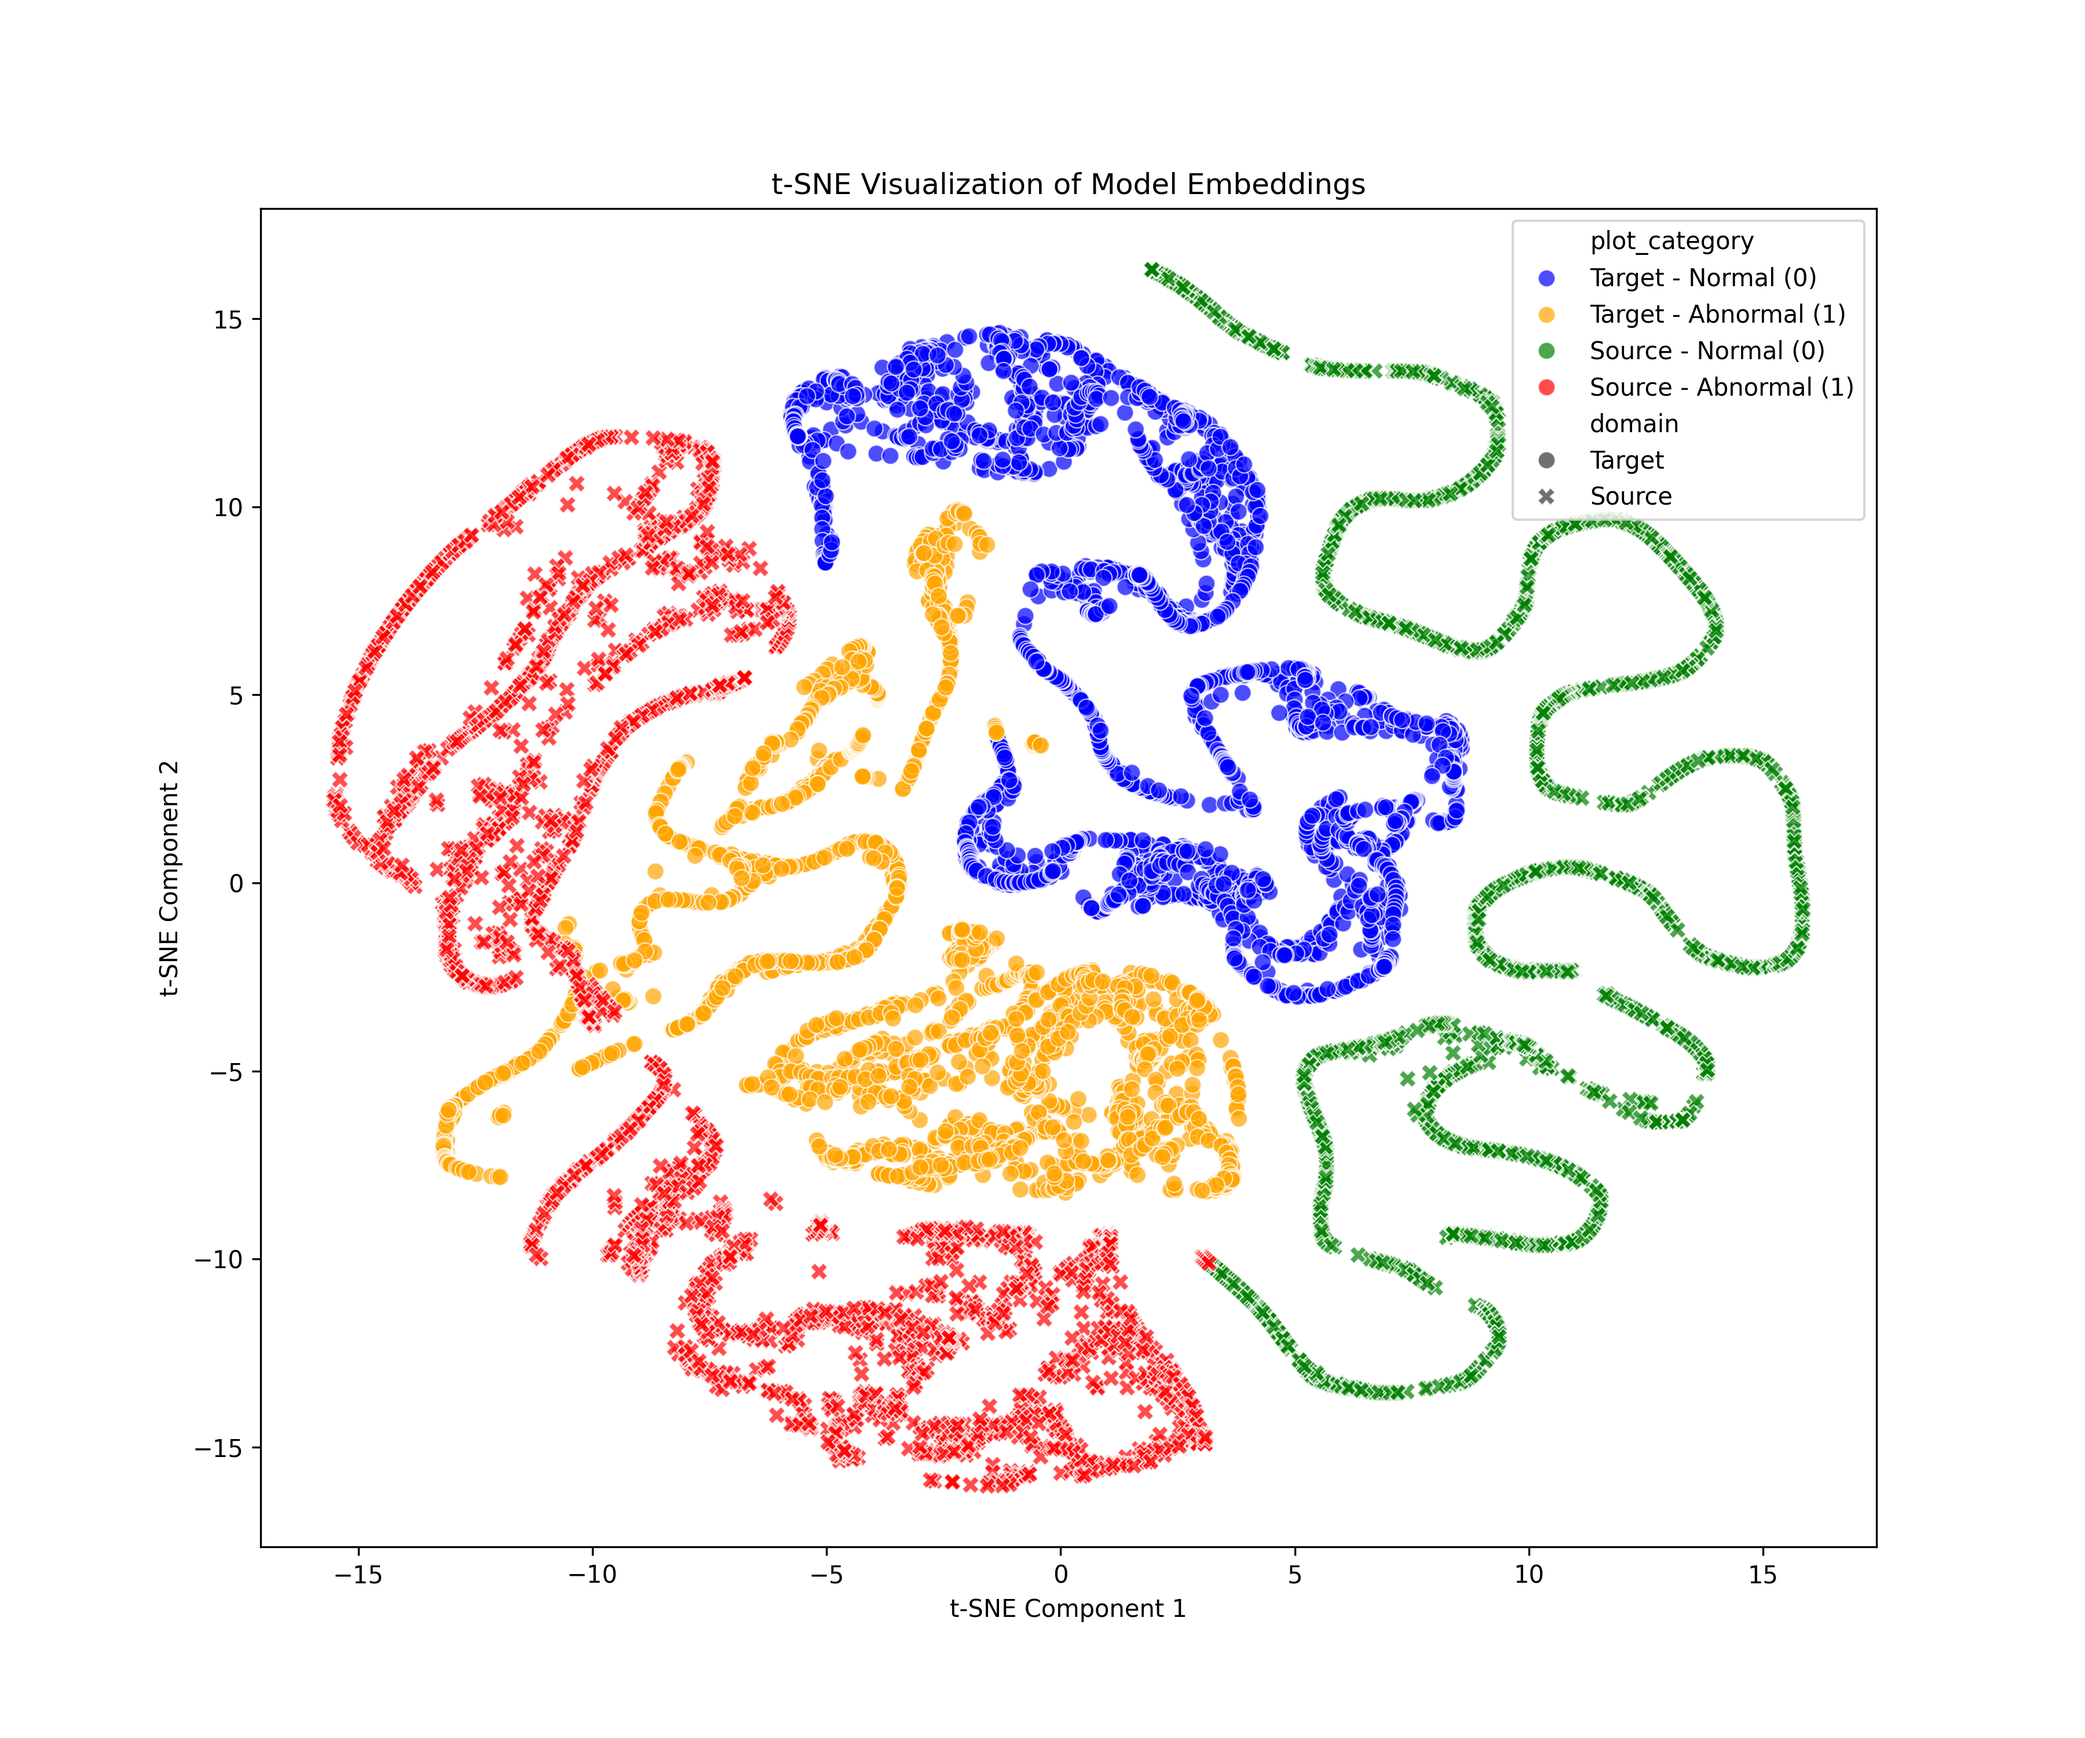
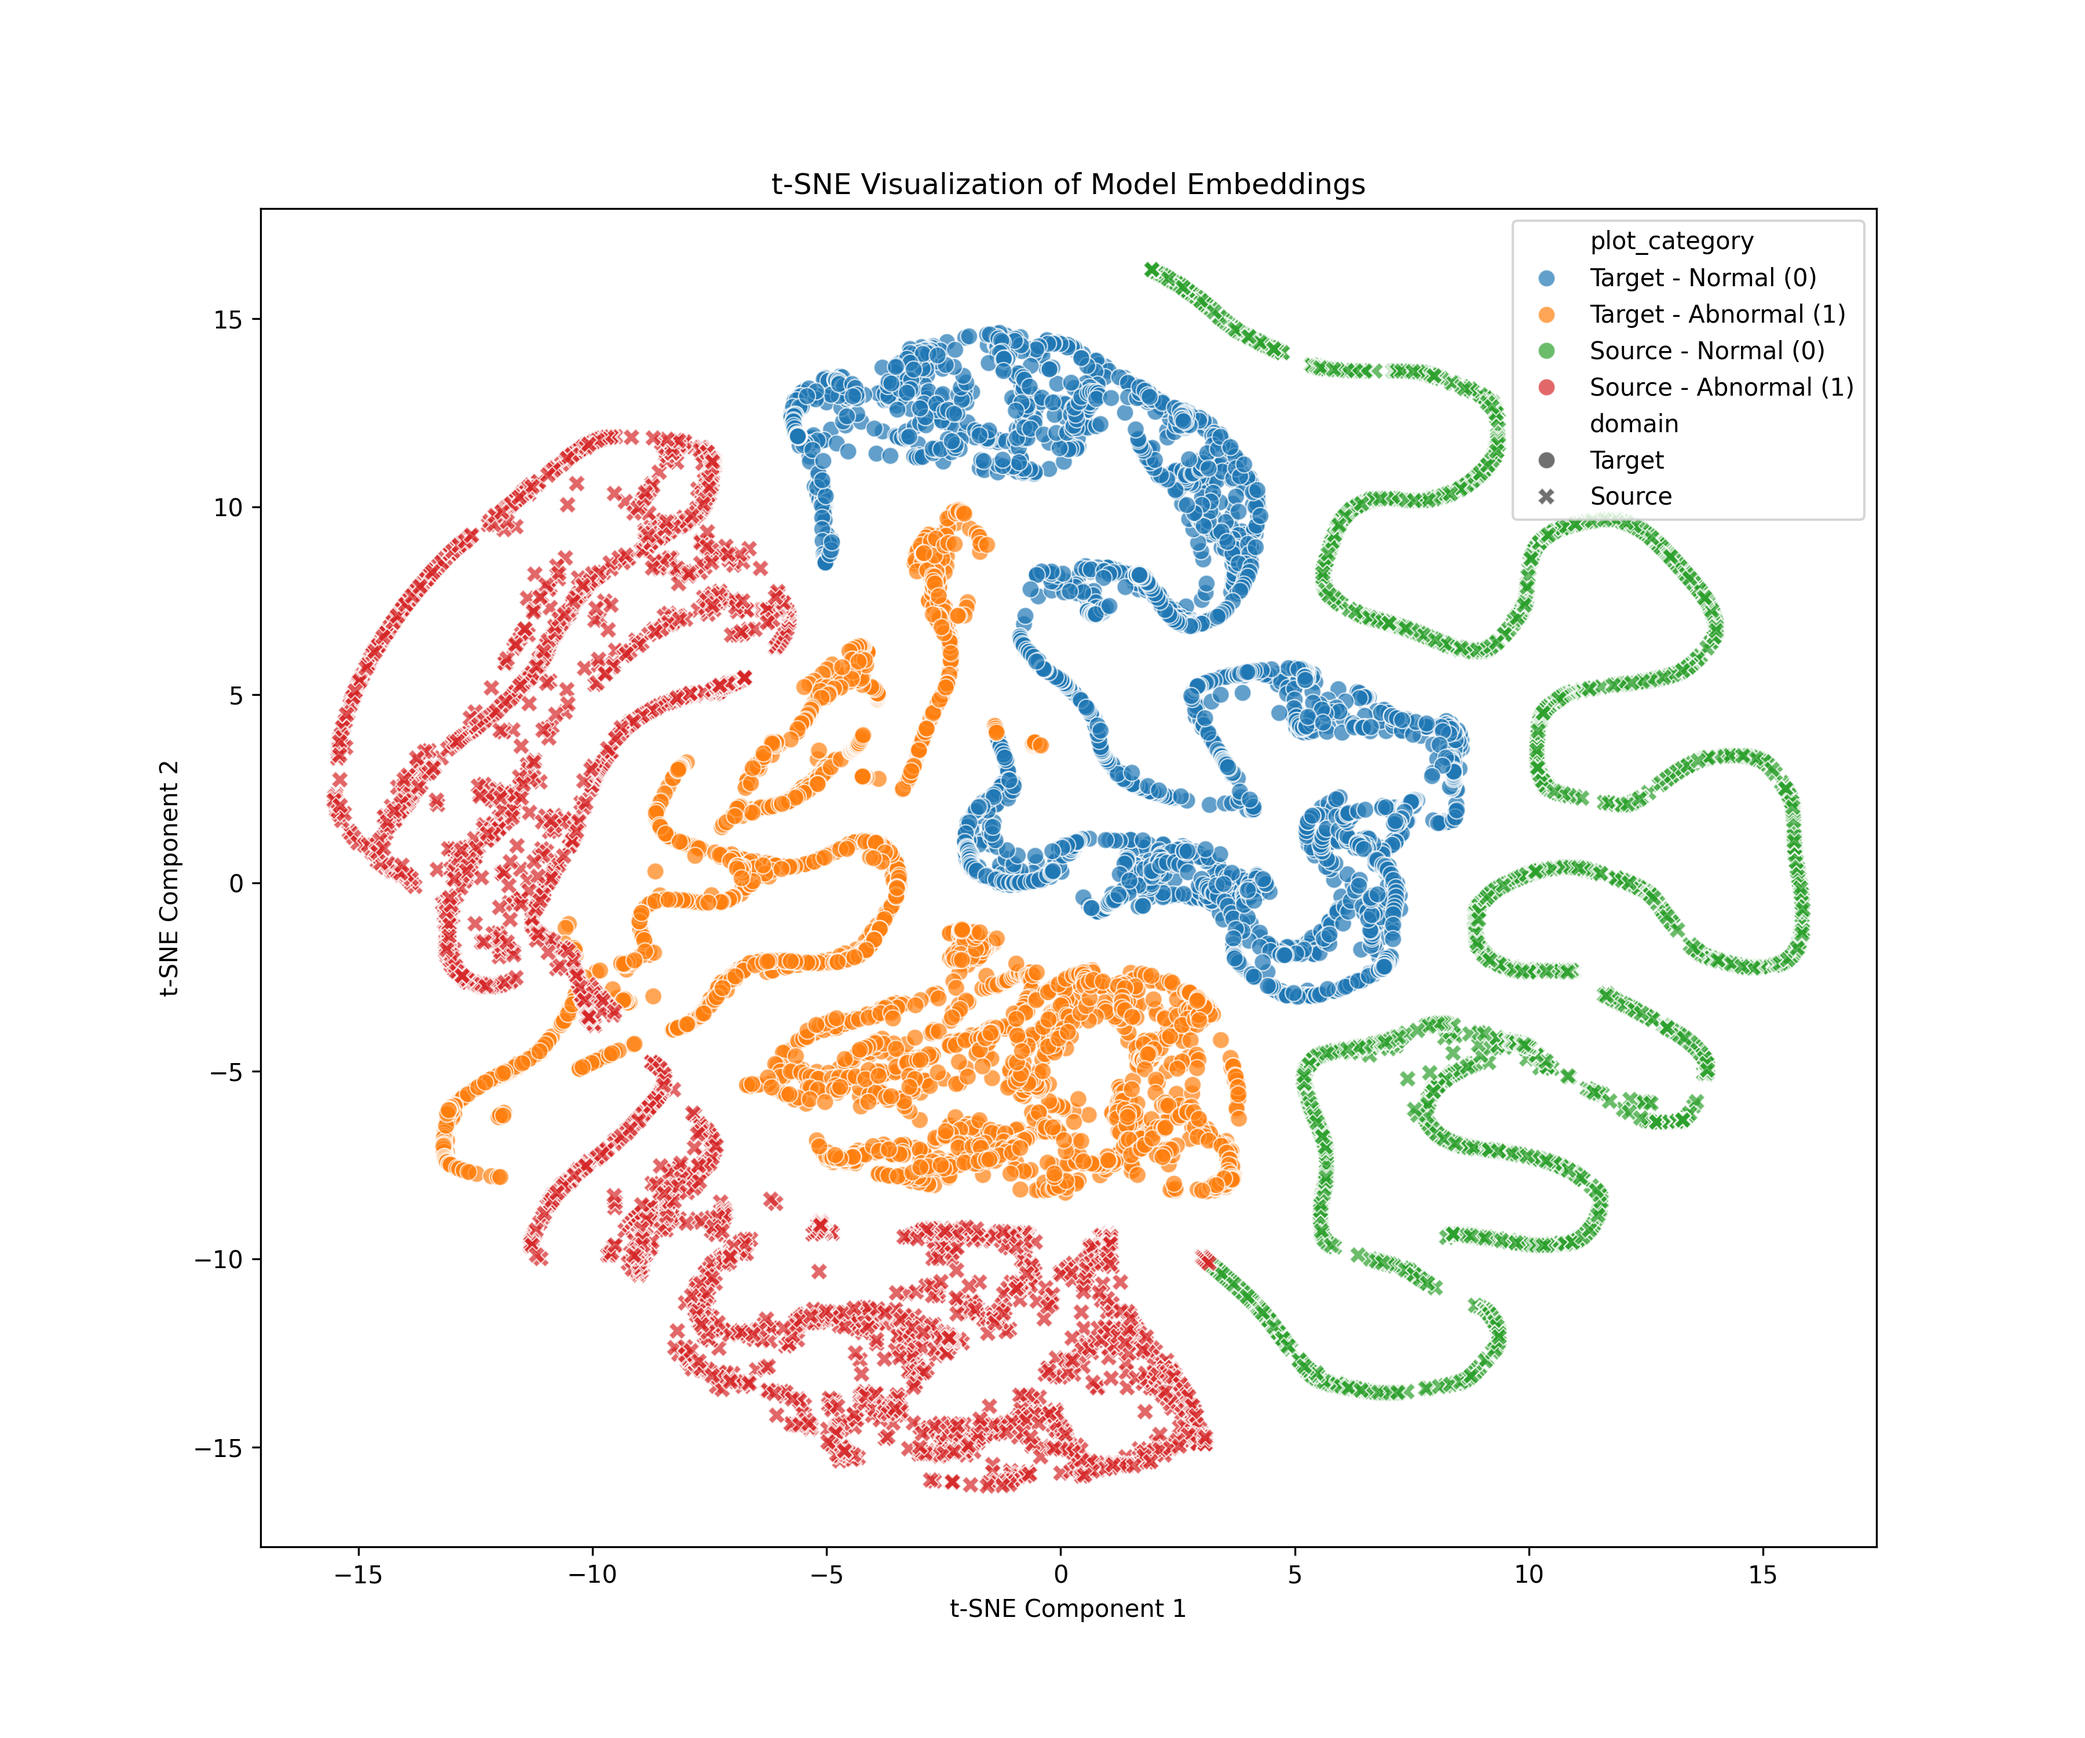
123

diff --git a/main/eval.py b/main/eval.py
@@ -256,18 +256,11 @@ def main(args):
 
         # 4. 使用 Seaborn 繪圖
         plt.figure(figsize=(12, 10))
-        custom_palette = {
-            'Source - Abnormal (1)': 'red',     # 來源 異常 = 紅色
-            'Source - Normal (0)': 'green',   # 來源 正常 = 綠色
-            'Target - Abnormal (1)': 'orange', # 目標 異常 = 暗紅色 (仍為紅色系)
-            'Target - Normal (0)': 'blue' # 目標 正常 = 亮綠色 (仍為綠色系)
-        }
         sns.scatterplot(
             data=df_tsne,
             x='x',
             y='y',
             hue='plot_category', # 顏色
-            palette= custom_palette,
             style='domain',      # 形狀
             s=50,                # 點的大小
             alpha=0.7
